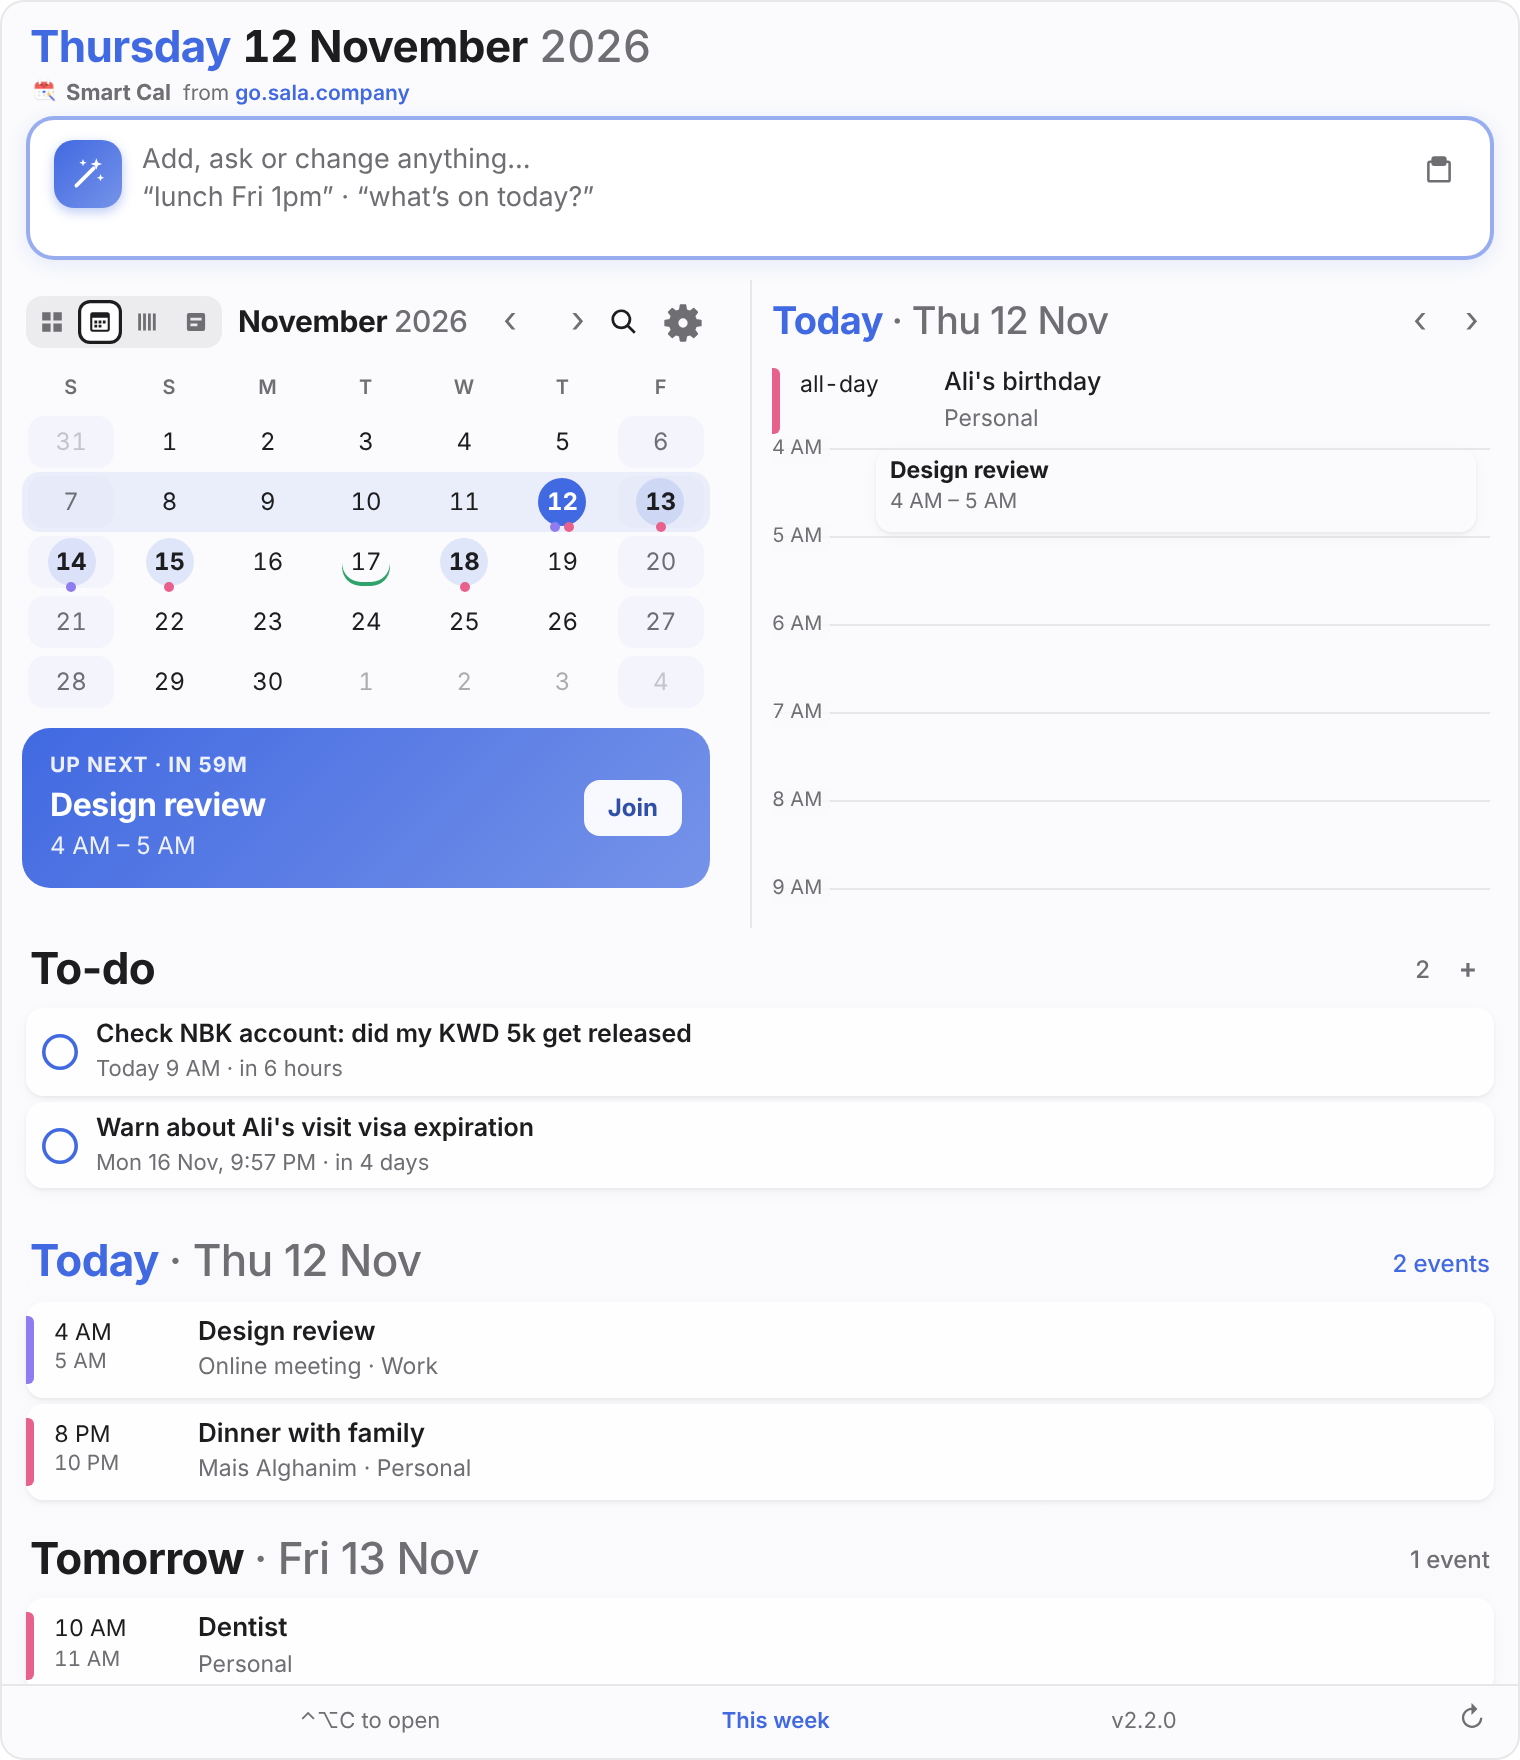
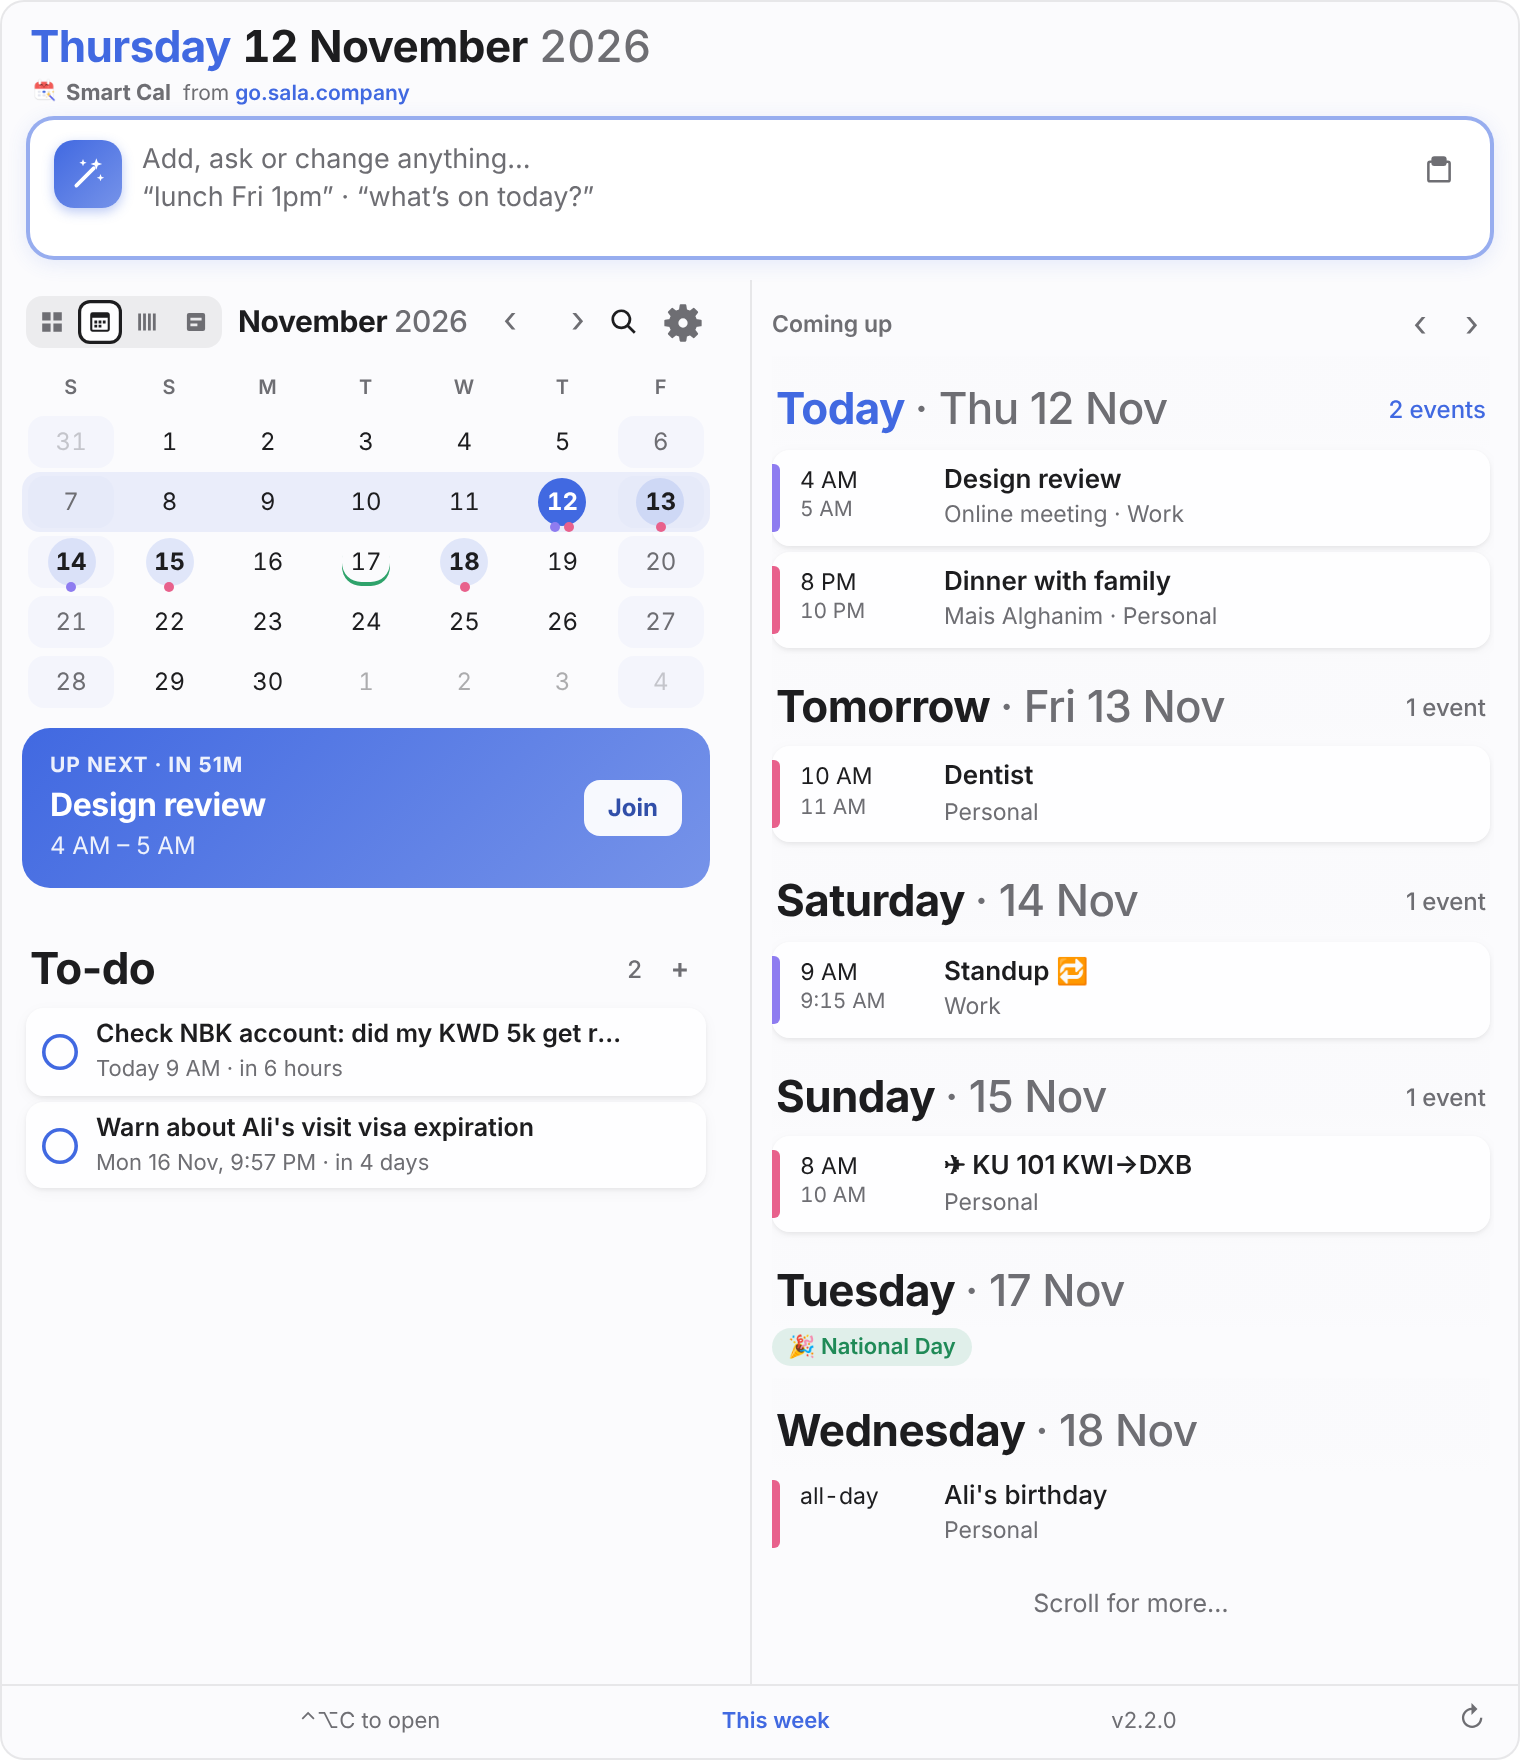
Wide layout: a running agenda next to the month (v2.2.10)
The right column starts today (or the clicked day) and runs on through
the following days with sticky day headings, loading two weeks at a time
as you scroll (up to a year). To-dos move under the month; the bottom
upcoming list is dropped in this layout. Fix: wrapper classes renamed
(cal-row clashed with the Settings calendar rows).

Claude-Session: https://claude.ai/code/session_01Cjh7JM8M9G1nSw8NXVgGNz

diff --git a/frontend/app.js b/frontend/app.js
@@ -634,6 +634,7 @@ function renderList() {
     return;
   }
 
+  if (isWide()) return; // wide layout: the agenda next to the month shows the days instead
   const all = evs();
   if (!all.length) {
     list.append(emptyState("🌴", S.error ? "Couldn't load events." : `Nothing in the next ${S.daysAhead} days.`));
@@ -1157,22 +1158,28 @@ function renderFooter() {
 }
 
 let eventsSig = "";
-// ---------- wide layout: the selected day next to the month ----------
+// ---------- wide layout: an agenda next to the month ----------
+// The right column starts at today (or the day you click) and runs on through the following
+// days, loading more as you scroll. The list under the to-dos isn't shown in this layout.
 const isWide = () => !SETTINGS_WIN && S.layout === "wide";
-let sideDay = startOfDay(new Date());
-let sideEvents = null; // { key, events }
+let sideDay = startOfDay(new Date()); // first day of the agenda
+let sideTo = null;                    // loaded up to (exclusive)
+let sideEvents = null;                // events from sideDay to sideTo
+let sideLoading = false;
 let wideOn = null;
+const SIDE_CHUNK = 14, SIDE_MAX = 366;
 
 function applyLayout() {
   const wide = isWide();
   if (wide === wideOn) return;
   wideOn = wide;
   document.body.classList.toggle("wide", wide);
-  // Up next sits under the month in the wide layout, at the top of the list otherwise
-  const up = $("upnext");
-  if (wide) $("calLeft").append(up); else $("scroll").prepend(up);
-  if (wide) { listMode = listMode === "day" ? "upcoming" : listMode; dayView = null; loadSideDay(true); }
-  else $("sideDay").innerHTML = "";
+  // wide: Up next and the to-dos sit under the month; compact: back in the one-column list
+  const up = $("upnext"), sc = $("scroll");
+  if (wide) { $("calLeft").append(up, sc); }
+  else { $("calRow").after(sc); sc.prepend(up); }
+  if (wide) { if (listMode === "day") { listMode = "upcoming"; dayView = null; } loadSideDay(true); renderList(); }
+  else { $("sideDay").innerHTML = ""; renderList(); }
 }
 
 function setSideDay(d) {
@@ -1183,56 +1190,67 @@ function setSideDay(d) {
   loadSideDay(true);
 }
 
-// fresh = the day changed (scroll to the first event / now); otherwise keep the scroll position
+// fresh = start over at sideDay (scroll to the top); otherwise reload what's loaded and keep the scroll
 async function loadSideDay(fresh) {
-  const d = sideDay, key = dayKey(d);
-  if (fresh || !sideEvents || sideEvents.key !== key) renderSideDay(fresh, sideEvents && sideEvents.key === key ? sideEvents.events : null);
+  const from = sideDay;
+  if (fresh || !sideTo) { sideTo = addDays(from, SIDE_CHUNK); sideEvents = null; renderSideDay(true); }
+  const to = sideTo;
   try {
-    const list = withDates(await go("EventsBetween", d.toISOString(), addDays(d, 1).toISOString()));
-    if (dayKey(sideDay) !== key) return;
-    sideEvents = { key, events: list };
-    renderSideDay(fresh, list);
+    const list = withDates(await go("EventsBetween", from.toISOString(), to.toISOString()));
+    if (+sideDay !== +from || +sideTo !== +to) return; // moved on meanwhile
+    sideEvents = list;
+    renderSideDay(fresh);
   } catch (err) { toast(errMsg(err), true); }
 }
 
-function renderSideDay(fresh, events) {
+// scrolled near the end: load the next two weeks
+async function loadMoreSide() {
+  if (sideLoading || !sideEvents || (sideTo - sideDay) / 864e5 >= SIDE_MAX) return;
+  sideLoading = true;
+  const from = sideTo, to = addDays(sideTo, SIDE_CHUNK), start = sideDay;
+  try {
+    const more = withDates(await go("EventsBetween", from.toISOString(), to.toISOString()));
+    if (+sideDay !== +start || +sideTo !== +from) return;
+    const seen = new Set(sideEvents.map((e) => e.id + "|" + e.start));
+    sideEvents = sideEvents.concat(more.filter((e) => !seen.has(e.id + "|" + e.start)));
+    sideTo = to;
+    renderSideDay(false);
+  } catch (_) {} finally { sideLoading = false; }
+}
+
+function renderSideDay(fresh) {
   const box = $("sideDay");
   if (!box || !isWide()) return;
   const oldBody = box.querySelector(".side-body"), keep = oldBody && !fresh ? oldBody.scrollTop : null;
   box.innerHTML = "";
-  const d = sideDay, isToday = sameDay(d, new Date());
-  const head = el("div", "side-head" + (isToday ? " is-today" : ""));
-  const t = headTitle(dayHead(d));
-  const prev = el("button", "icon-btn small-nav", "‹"); prev.title = "Previous day"; prev.onclick = () => setSideDay(addDays(d, -1));
-  const next = el("button", "icon-btn small-nav", "›"); next.title = "Next day"; next.onclick = () => setSideDay(addDays(d, 1));
-  head.append(t, prev, next);
-  if (!isToday) { const tb = el("button", "pill-btn", "Today"); tb.onclick = () => setSideDay(new Date()); head.append(tb); }
+  const d = sideDay, now = new Date(), isToday = sameDay(d, now);
+  const bar = el("div", "side-bar");
+  const prev = el("button", "icon-btn small-nav", "‹"); prev.title = "Start a day earlier"; prev.onclick = () => setSideDay(addDays(d, -1));
+  const next = el("button", "icon-btn small-nav", "›"); next.title = "Start a day later"; next.onclick = () => setSideDay(addDays(d, 1));
+  bar.append(el("span", "side-label", isToday ? "Coming up" : `From ${d.toLocaleDateString(LOC(), { weekday: "short", day: "numeric", month: "short" })}`));
+  if (!isToday) { const tb = el("button", "pill-btn", "Today"); tb.onclick = () => setSideDay(now); bar.append(tb); }
+  bar.append(prev, next);
   const body = el("div", "side-body");
-  box.append(head, body);
-  if (!events) { body.append(el("div", "side-empty", "Loading…")); return; }
-  const shown = events;
-  const waiting = drafts.filter((x) => sameDay(new Date(x.start), d));
+  box.append(bar, body);
+  if (!sideEvents) { body.append(el("div", "side-empty", "Loading…")); return; }
+  const waiting = drafts.filter((x) => new Date(x.start) >= d);
   if (waiting.length) body.append(pendingBox(waiting));
-  if (!events.some((e) => !e.holiday || S.showHolidayRows)) {
-    const hol = events.filter((e) => e.holiday);
-    if (hol.length) body.append(holidayTags(hol));
-    body.append(el("div", "side-empty", isToday ? "Nothing else today." : "Nothing planned."));
-    const add = el("button", "btn small-btn", "Add something this day");
-    add.onclick = () => { if (drafts.length) { moveDraftsTo(d); return; } const q = $("quick"); q.value = `on ${d.toLocaleDateString(LOC(), { weekday: "short", day: "numeric", month: "short" })} `; q.focus(); };
-    body.append(add);
-    return;
+  // the first day always shows, even when it's empty
+  const firstHas = sideEvents.some((e) => e.s < addDays(d, 1) && e.e > d);
+  if (!firstHas) {
+    const head = el("div", "day-head" + (isToday ? " is-today" : ""));
+    const wx = weatherChip(d), right = el("span", "count", "");
+    if (wx) right.prepend(wx);
+    head.append(headTitle(dayHead(d)), right);
+    body.append(head, el("div", "side-empty", isToday ? "Nothing else today." : "Nothing planned."));
   }
-  renderTimeline(body, d, shown);
-  // open on now (today) or the first event, an hour before
+  renderGroups(body, sideEvents.filter((e) => e.e > d), { now, showPast: true, spread: true, from: d });
+  const more = el("div", "side-empty side-more", (sideTo - d) / 864e5 >= SIDE_MAX ? "That's a year ahead." : "Scroll for more…");
+  body.append(more);
   if (keep != null) body.scrollTop = keep;
-  else {
-    // today: the "now" line if it's inside the timeline, else the first event
-    const tl = body.querySelector(".timeline");
-    const nowLine = isToday ? body.querySelector(".tl-now") : null;
-    const inside = nowLine && tl && nowLine.offsetTop >= 0 && nowLine.offsetTop <= tl.offsetHeight;
-    const target = inside ? nowLine : body.querySelector(".tl-ev");
-    if (target) body.scrollTop = Math.max(0, target.getBoundingClientRect().top - body.getBoundingClientRect().top + body.scrollTop - HOUR);
-  }
+  body.onscroll = () => { if (body.scrollTop + body.clientHeight > body.scrollHeight - 240) loadMoreSide(); };
+  // a short list: fill the column straight away
+  if (body.scrollHeight <= body.clientHeight + 40) loadMoreSide();
 }
 
 // ---------- today's date at the top of the panel ----------
@@ -2984,13 +3002,15 @@ function wire() {
     const a = ev.data;
     toast(`⏰ ${a.title} — ${a.body}`);
   });
-  $("scroll").addEventListener("contextmenu", (ev) => {
+  const rowMenu = (ev) => {
     let n = ev.target;
     while (n && n !== ev.currentTarget && !n._ev) n = n.parentElement;
     if (!n || !n._ev) return;
     ev.preventDefault();
     eventMenu(n._ev, n, { x: ev.clientX, y: ev.clientY });
-  });
+  };
+  $("scroll").addEventListener("contextmenu", rowMenu);
+  $("sideDay").addEventListener("contextmenu", rowMenu);
   Events.On("popover:shown", () => {
     if (SETTINGS_WIN) return;
     renderToday();

diff --git a/frontend/style.css b/frontend/style.css
@@ -968,16 +968,19 @@ body.more-contrast .day.has .num { box-shadow: inset 0 0 0 1.5px var(--fg); }
 .todo-head { padding: 8px 2px 6px; }
 
 /* ---------- layout: compact (one column) or wide (month + selected day side by side) ---------- */
-.cal-row, .cal-left { display: contents; }
+.wide-row, .wide-left { display: contents; }
 .side-day { display: none; }
-body.wide .cal-row { display: grid; grid-template-columns: 364px 1fr; gap: 10px; flex: none; padding-right: 12px; }
-body.wide .cal-left { display: flex; flex-direction: column; min-width: 0; }
-body.wide .cal-left #upnext { padding: 0 10px 8px; }
-body.wide .side-day {
-  display: flex; flex-direction: column; min-width: 0;
-  height: 0; min-height: 100%; /* as tall as the month column, never taller */
-  border-left: .5px solid var(--line); padding-left: 10px;
+body.wide .wide-row {
+  display: grid; grid-template-columns: 364px minmax(0, 1fr); grid-template-rows: minmax(0, 1fr);
+  gap: 10px; flex: 1; min-height: 0; padding-right: 12px; align-items: stretch;
 }
+body.wide .wide-left { display: flex; flex-direction: column; min-width: 0; min-height: 0; }
+body.wide .wide-left #upnext { padding: 0 10px 8px; flex: none; }
+body.wide .wide-left #scroll { flex: 1; min-height: 0; }
+body.wide .side-day { display: flex; flex-direction: column; min-width: 0; min-height: 0; border-left: .5px solid var(--line); padding-left: 10px; }
+.side-bar { display: flex; align-items: center; gap: 4px; padding: 10px 0 2px; flex: none; }
+.side-label { flex: 1; font-size: 11.5px; font-weight: 600; color: var(--muted); }
+.side-more { text-align: center; font-size: 11.5px; }
 .side-head { display: flex; align-items: center; gap: 4px; padding: 8px 0 6px; flex: none; }
 .side-head .head-title { font-size: 19px; }
 .side-head.is-today .head-title { color: var(--accent); }

diff --git a/frontend/index.html b/frontend/index.html
@@ -48,8 +48,8 @@
         <div class="bubble" id="greetText">Hi there 👋</div>
       </div>
       <!-- wide layout: month on the left, the selected day on the right (compact: one column) -->
-      <div class="cal-row" id="calRow">
-      <div class="cal-left" id="calLeft">
+      <div class="wide-row" id="calRow">
+      <div class="wide-left" id="calLeft">
       <header class="top">
         <div class="title-row">
           <div class="views" id="views">

diff --git a/README.md b/README.md
@@ -7,7 +7,7 @@ A Fantastical-style **macOS menu bar calendar**, written in Go with **Wails v3**
 **Latest:** [download the newest release](https://github.com/jamalxcode/personalcalendar/releases/latest) · [what's new](CHANGELOG.md) · [design log](DESIGN.md)
 
 - **Menu bar** shows the next event compactly — `👥 2h Meet`, `🦷 25m Dentist`, `✈ Su 8a KU101` — with no icon while there is text. Ten styles plus fine-tune options in Settings → Menu bar.
-- **Panel** (click the menu bar text or press **⌃⌥C**, configurable): **today's date in large letters as the first line** ("Wednesday 11 November 2026"), the AI box, then — in the default wide layout — **the month with the selected day's timeline next to it** (click a day, or step with ‹ ›) and your to-dos below (Settings → Look → Layout → Compact for the one-column panel), and a greeting, then Year / Month / Week / Day views (week = one line per day, day = one line per hour) with highlighted event days, weekends shaded and the current period highlighted, an *Up next* card with countdown + **Join**, and your upcoming events by day. Holidays show as small tags.
+- **Panel** (click the menu bar text or press **⌃⌥C**, configurable): **today's date in large letters as the first line** ("Wednesday 11 November 2026"), the AI box, then — in the default wide layout — **the month with your to-dos under it, and next to it an agenda that starts today and scrolls on through the following days** (click a day to start there, ‹ › to step, Today to come back; Settings → Look → Layout → Compact for the one-column panel), and a greeting, then Year / Month / Week / Day views (week = one line per day, day = one line per hour) with highlighted event days, weekends shaded and the current period highlighted, an *Up next* card with countdown + **Join**, and your upcoming events by day. Holidays show as small tags.
 - **Click a day** for that day's agenda; **click an event** for its card — time, place (opens Maps), notes, attendees, Join — with **Delete** on the left, **Edit** on the right and a **⋯** menu for Duplicate, Pin as Countdown and Open in Calendar.
 - **AI box**: add (`dinner with Sara Thursday 8pm at Mais Alghanim`), ask (`what's on Thursday?`, `am I free tomorrow afternoon?`) or change (`move lunch to 3pm`, `push the dentist back by a week`, `move this to 1 month from now`, `cancel Friday's dentist`) — changes show a before/after preview first, only touch what you mention (in English or Arabic), keep the event's notes and time zone, and relative dates are calculated exactly. Uses your OpenRouter or OpenAI key; simple lines work offline without one.
 - **Flights**: flight numbers (KU 101, EK857) get a ✈ button that opens Flightradar24 — "Track live" while the plane is in the air.

diff --git a/DESIGN.md b/DESIGN.md
@@ -18,6 +18,12 @@ technical lessons are in [LESSONS.md](LESSONS.md).
 
 ---
 
+## v2.2.10 — An agenda that runs on (12 Nov 2026)
+
+**Asked:** "remove the bottom today, and have the today next to the calendar, scroll and extend to the next day if space permits and the day after and beyond".
+**Decided:** in the wide layout the right column is a continuous agenda instead of a one-day timeline: it starts on today (or the clicked day; ‹ › and Today move it), shows each day's events under its own sticky heading — the first day always, later days when they have something — and loads two more weeks whenever you near the end (up to a year). It spans the panel's full height; the month, Up next and to-dos share the left column. The upcoming list under the to-dos is dropped in this layout (it duplicated the agenda). Rescheduling is by right-click there; the compact layout keeps the day timeline with drag-to-move.
+**Fixed along the way:** the new wrapper's class `cal-row` was already used by the calendar rows in Settings; renamed to `wide-row`/`wide-left`.
+
 ## v2.2.9 — Month and day side by side (12 Nov 2026)
 
 **Asked:** "lets have a month with a day view next to it, and todo below". **Decided:** a wide layout (760 pt, shrinks to fit the screen) as the default: the AI box across the top; the month and the Up next card on the left; the selected day as an hour timeline on the right (today on open, any day you click, ‹ › and Today), with all-day items and waiting events on top, drag-to-move and double-click-to-add as in the day view; to-dos and the upcoming list full width below. Clicking a day no longer replaces the list in this layout. The one-column panel stays as Settings → Look → Layout → Compact.

diff --git a/CHANGELOG.md b/CHANGELOG.md
@@ -2,6 +2,11 @@
 
 Release notes shown in the app's Update panel come from the matching section here.
 
+## v2.2.10
+
+- **The days run down the right side:** in the wide layout the right column is now an agenda that starts with today and carries on into tomorrow, the day after and beyond — each day with its own heading that stays in view while you scroll, more days loading as you go (up to a year). Click a day in the month to start there, ‹ › to move a day, **Today** to come back. The list that repeated today's events at the bottom is gone; the to-dos now sit under the month and the agenda gets the panel's full height
+- Fixed: in v2.2.9 the calendar list in Settings → Calendar lost its layout (a style name clash)
+
 ## v2.2.9
 
 - **Month and day side by side:** the panel is wider, with the month (and Up next) on the left and the selected day's timeline on the right — today when it opens, or any day you click; ‹ › step through days and **Today** comes back. To-dos and your upcoming events are below. You can drag events in the day timeline as before. Prefer the narrow panel? Settings → Look → Layout → **Compact — one column**
